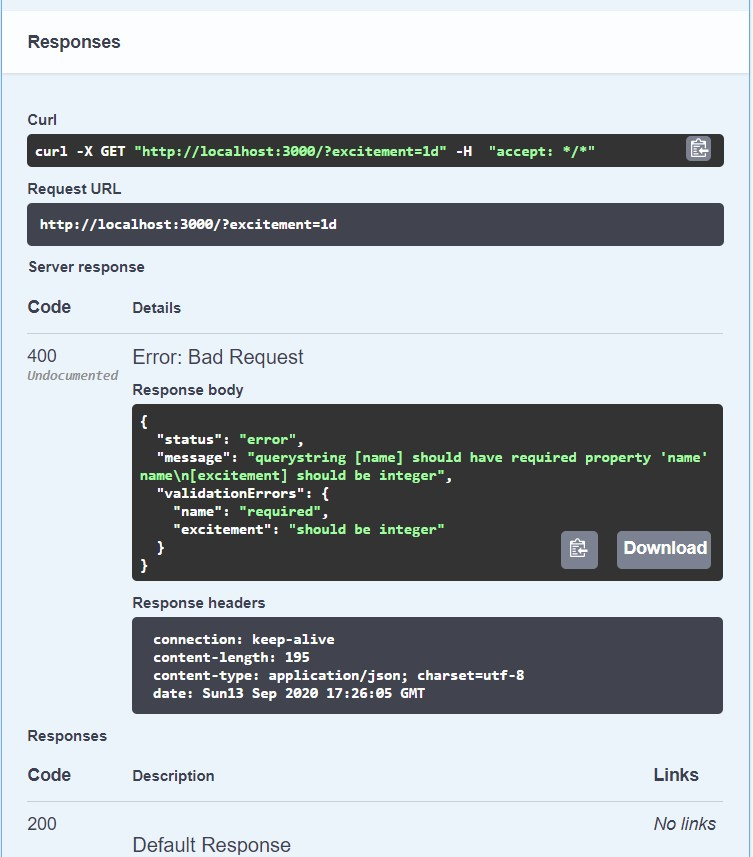
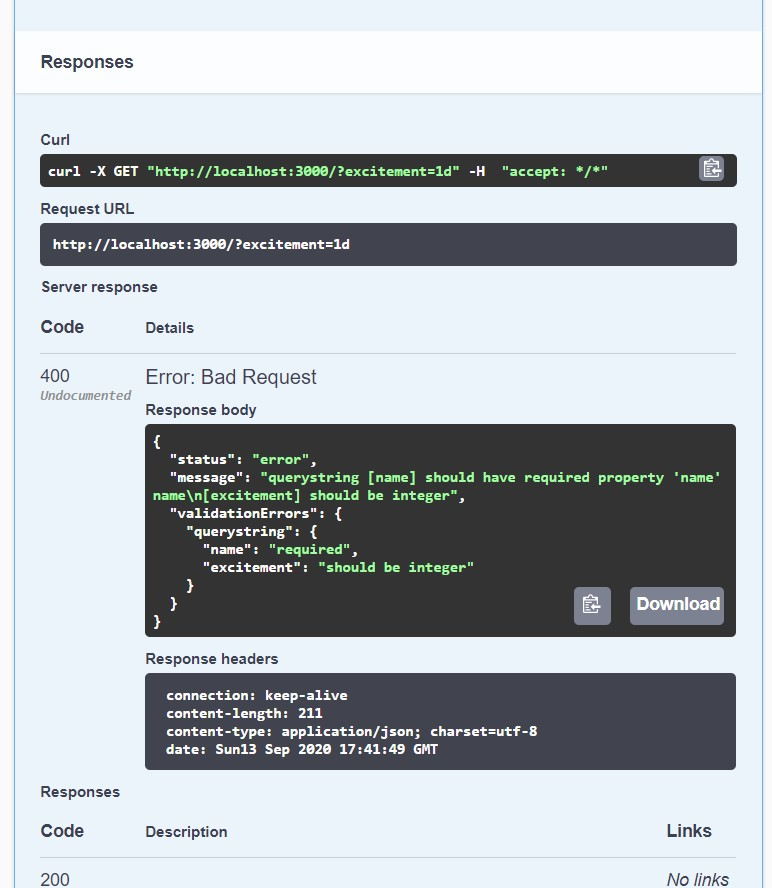
updated readme images

Changed region(s): [[0.0, 0.0, 1.0, 1.0]]

diff --git a/src/routerwrapper.js b/src/routerwrapper.js
@@ -177,7 +177,7 @@ function throwValidationError(errors, prefix) {
   err.status = 400;
   err.statusCode = 400;
   err.expose = true;
-  err.validationErrors = details;
+  err.validationErrors = { [prefix]: details };
   throw err;
 }
 
